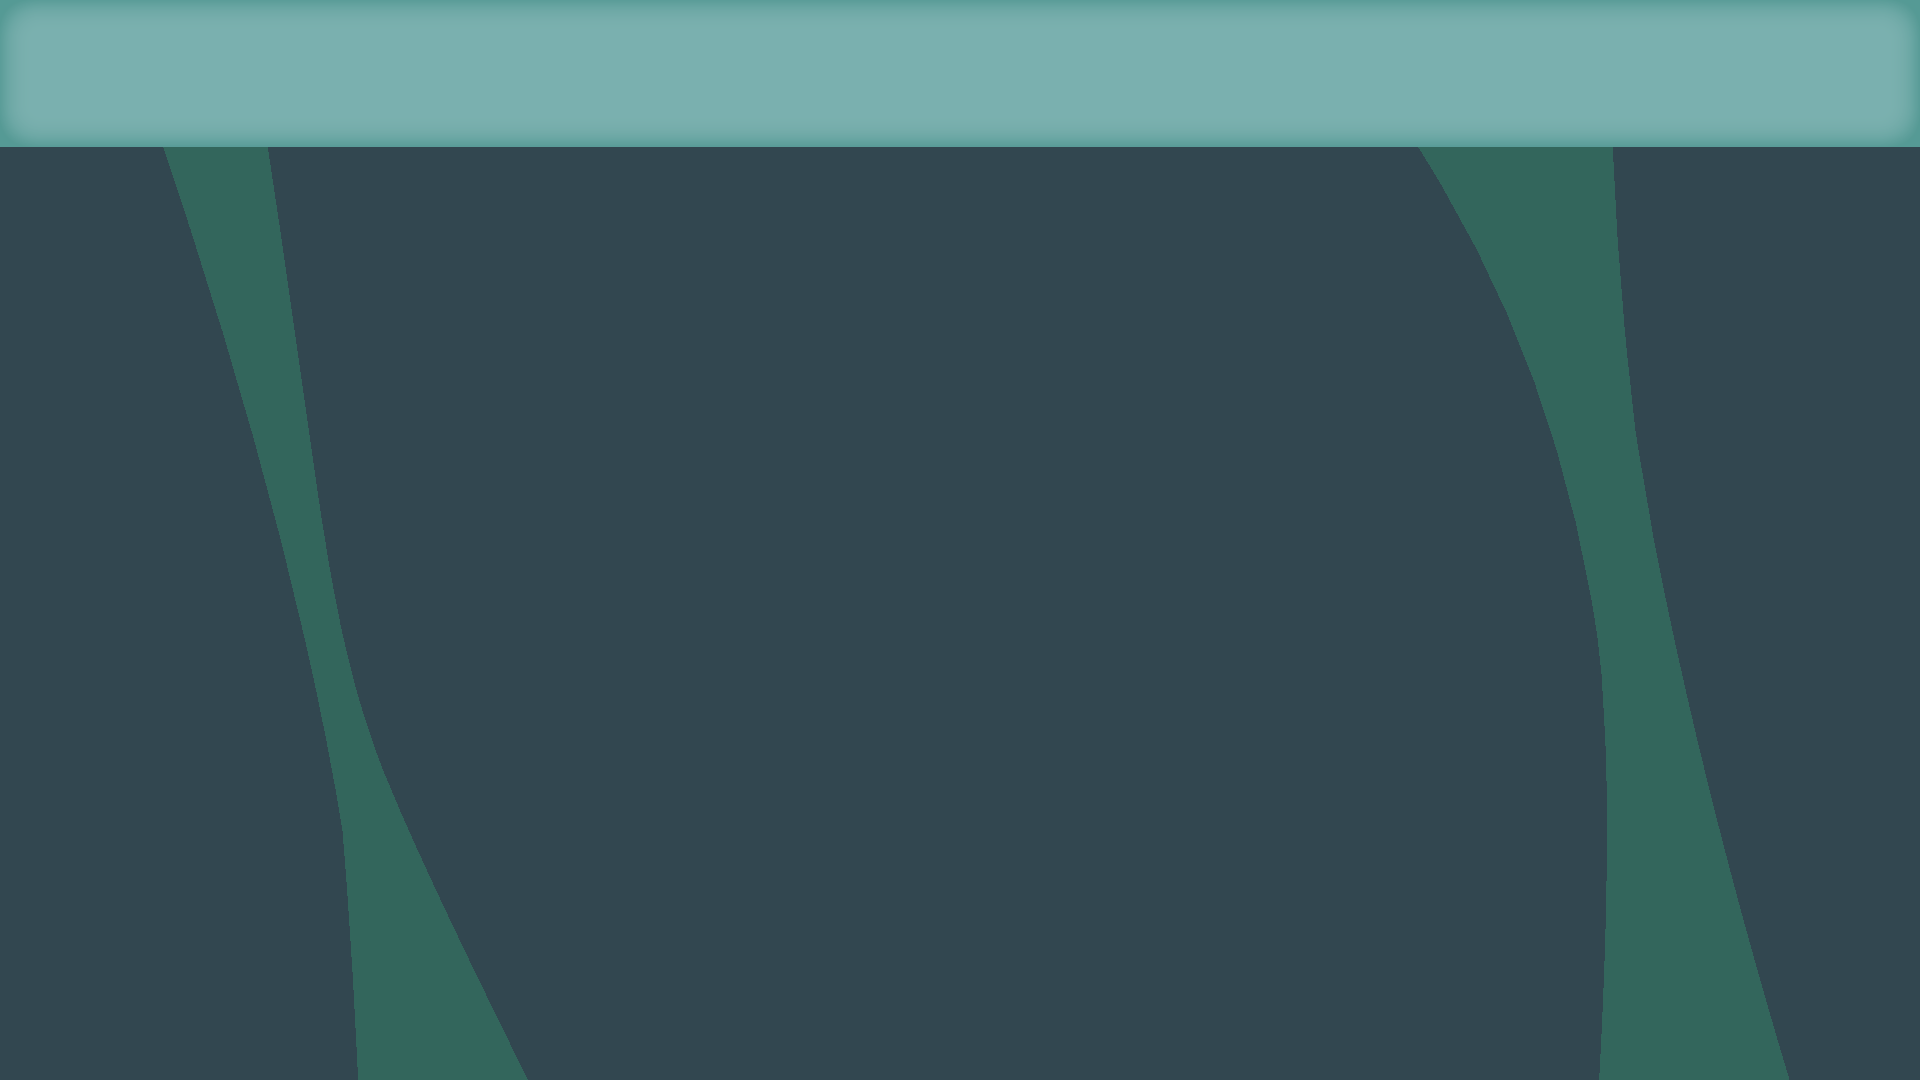
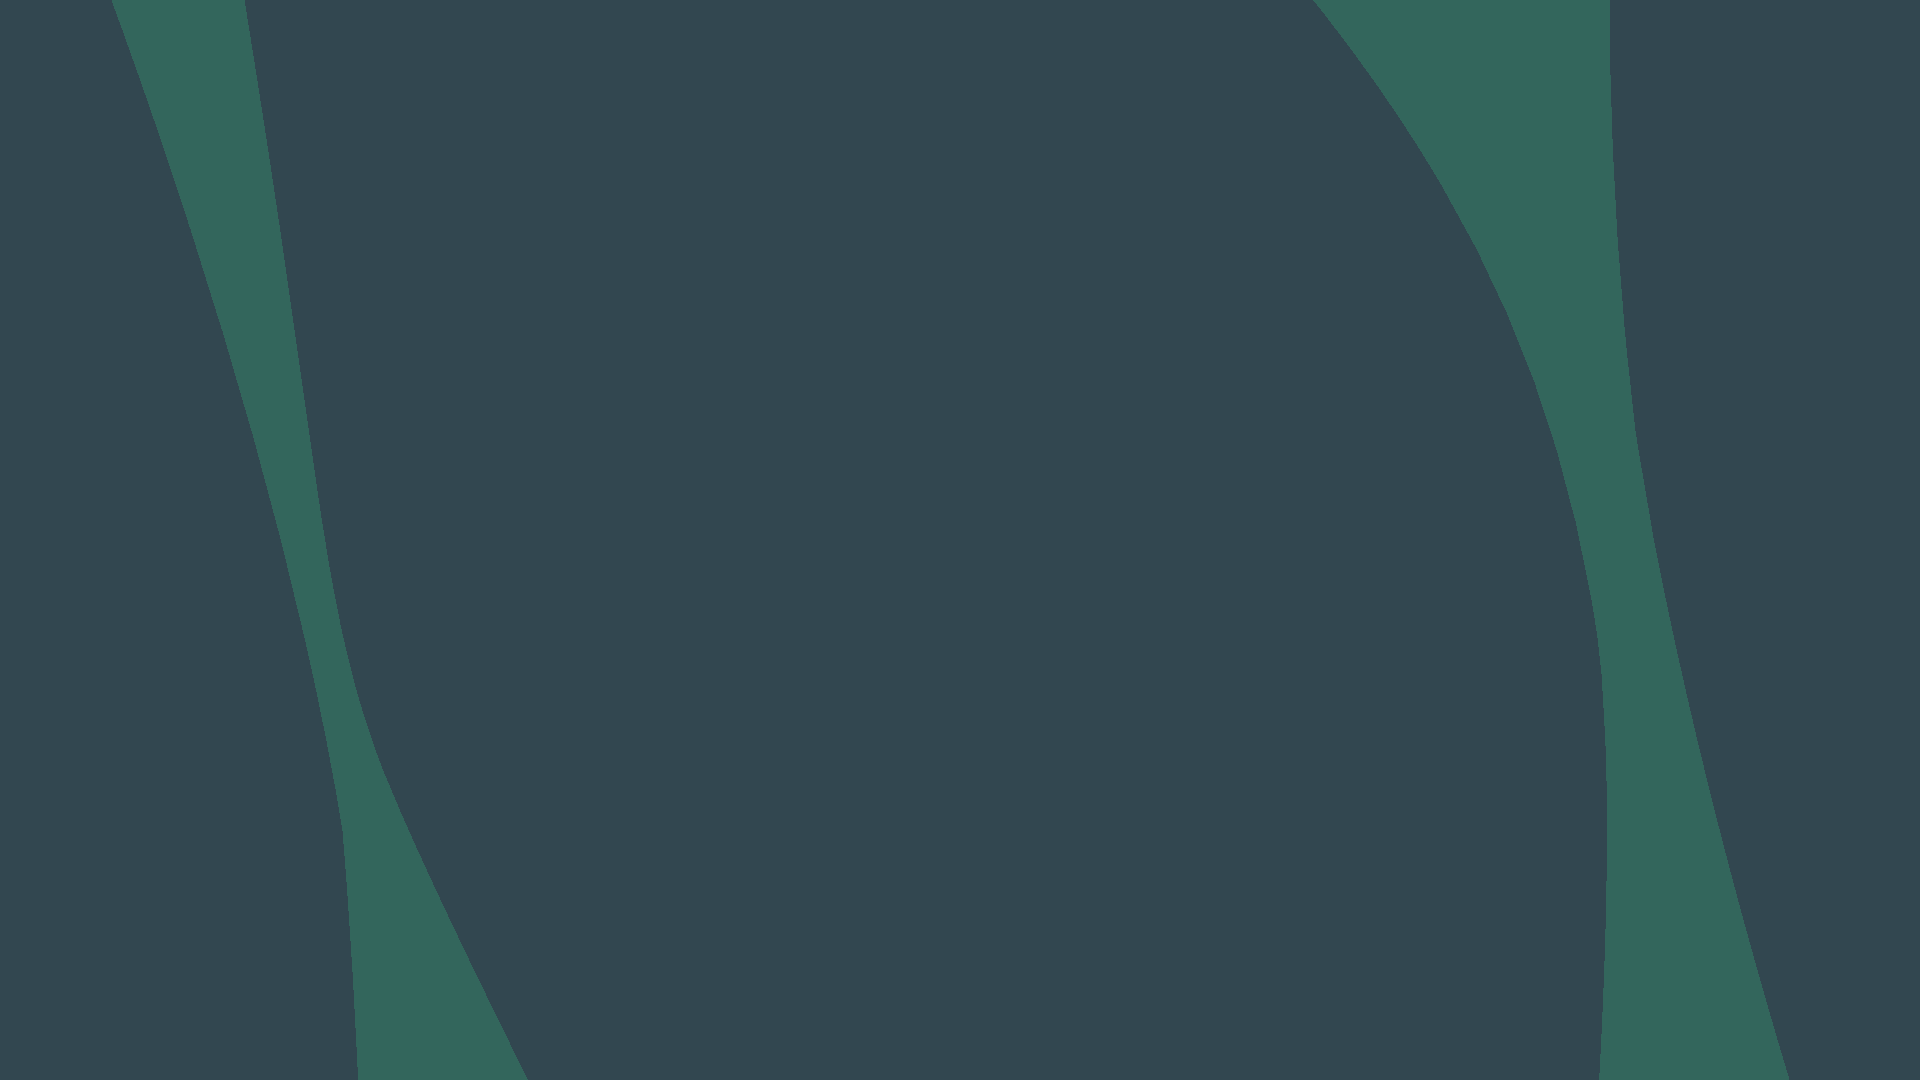
Adjustment,Changes,Fixes
Admin Landing and Nav bar are now 2 seperate image

Color picker updated for an extra color

Changed font color to the new color,and bolded font for
visibility(modified style.css file from yudhisxiii)

Changed region(s): [[0.0, 0.0, 1.0, 0.1528]]

diff --git a/Simply-Log/Admin Landing/style.css b/Simply-Log/Admin Landing/style.css
@@ -27,7 +27,8 @@
 	padding-top: 40px;
 	padding-left: 80px;
 	text-align: center;
-	color: #86AC41;
+	color: #568B27;
+	font-weight: bold;
 }
 
 .nav ul li a:hover{
